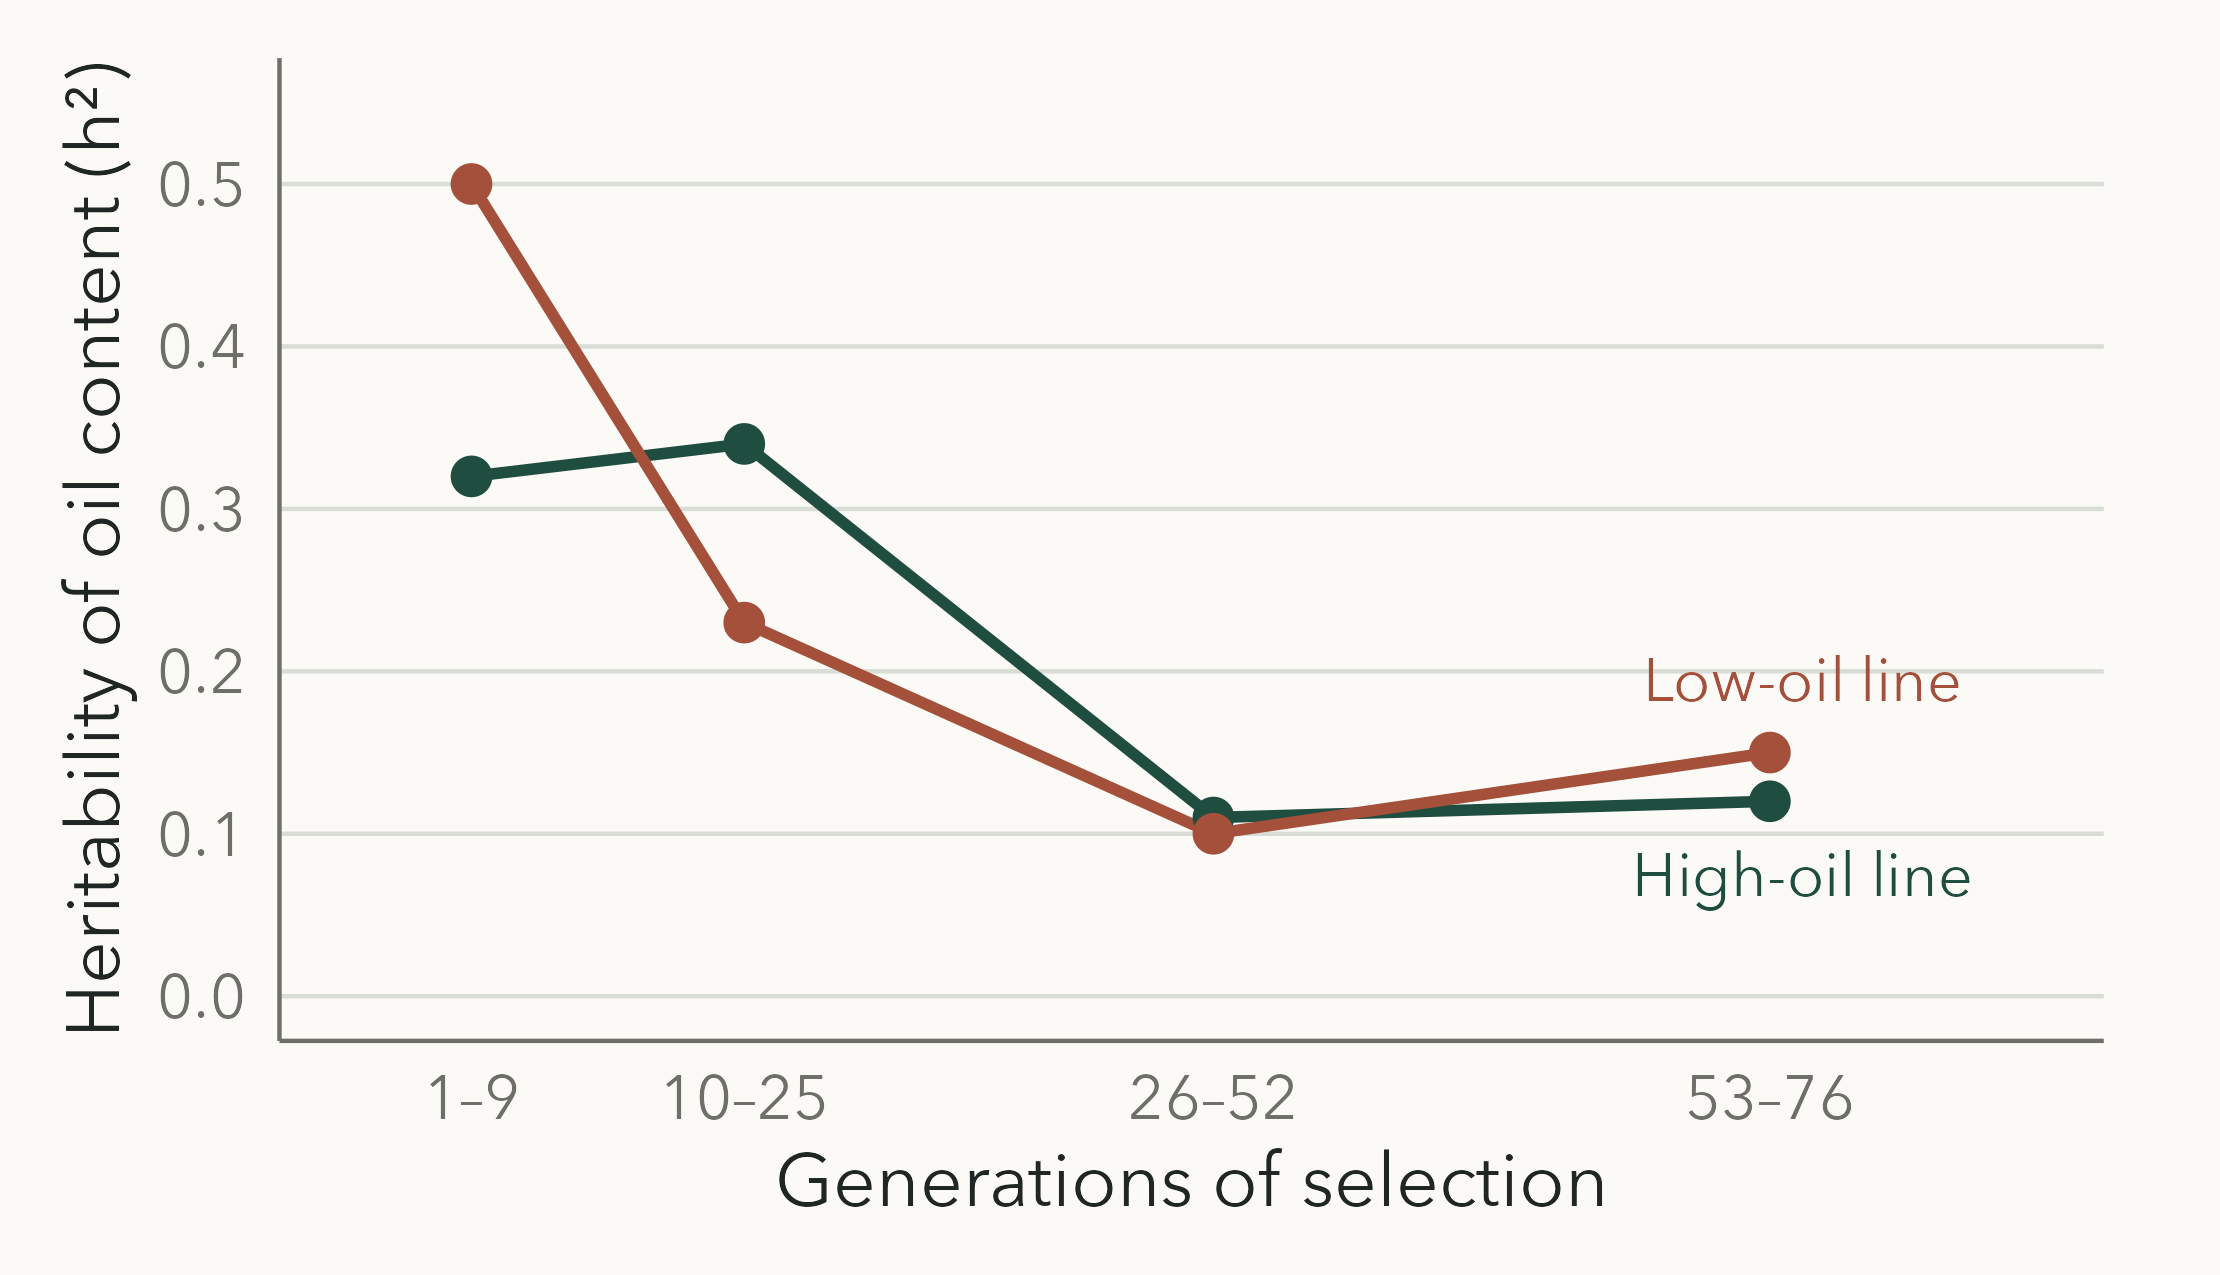
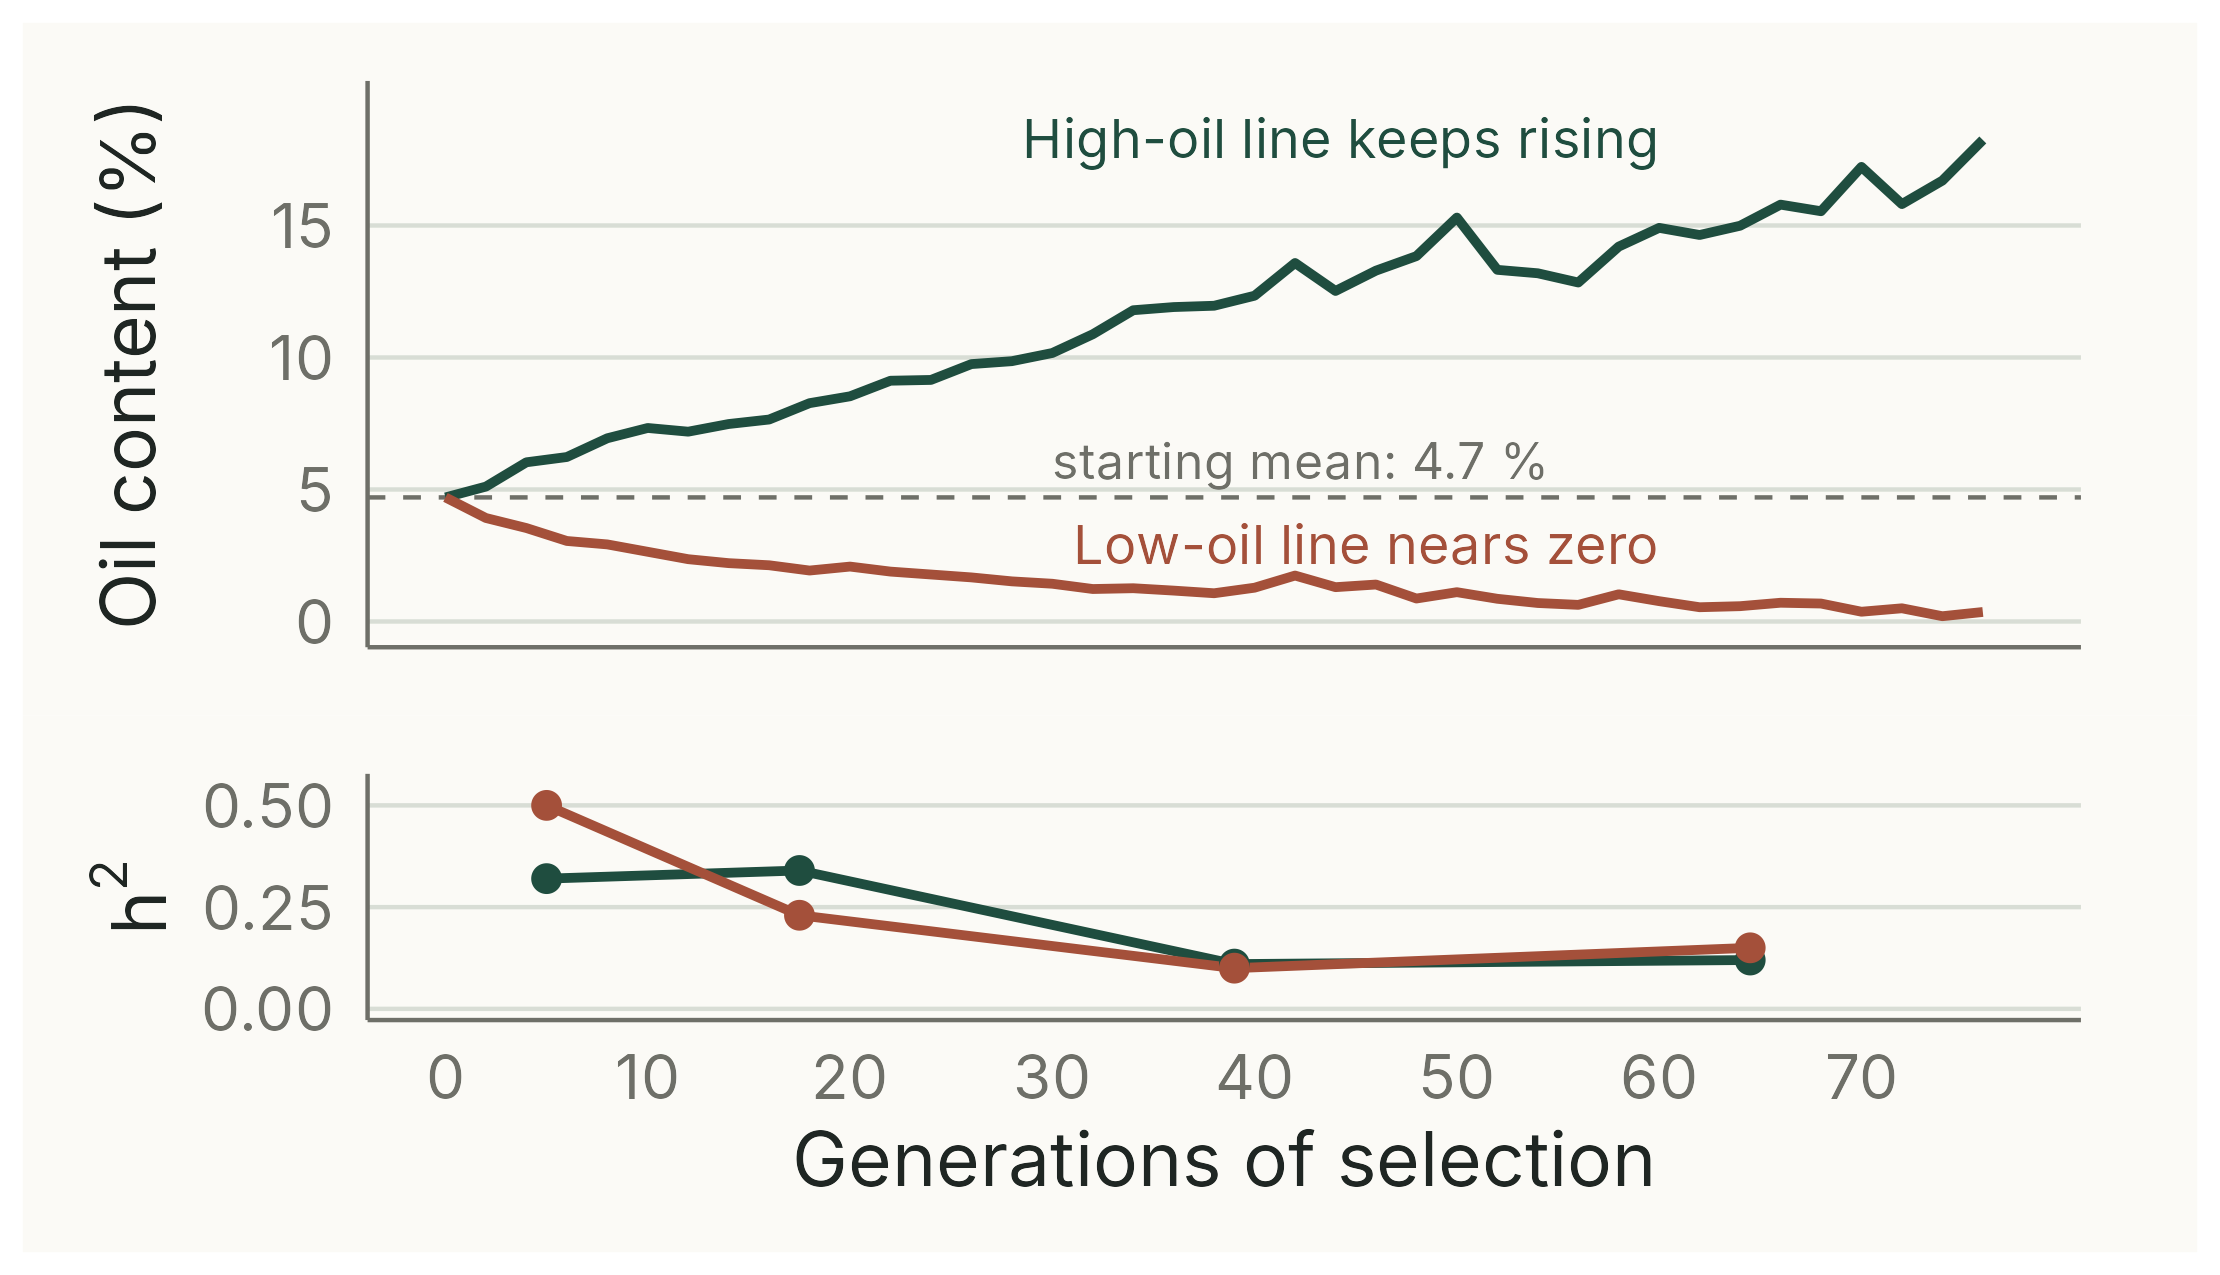
Update to heritability and quant gen material

Changed region(s): [[0.0311, 0.0306, 0.9324, 0.9482]]

diff --git a/lecture_figures/polygenic_quantitative_genetics/README.md b/lecture_figures/polygenic_quantitative_genetics/README.md
@@ -19,7 +19,7 @@ Run all figures from this folder with `source("render_all.R")`, or `LANG=C.UTF-8
 | `03_variance_budget.R` | 14, 19 | `takeaway` | East's variance components: V_G and V_E (03a); V_A, V_D + V_I, V_E (03b) | Empirical (Neal, partitioning section) |
 | `04_east_regression.R` | 18 | `takeaway` | Mid-parent–offspring regression, slope 0.8348, with h² = 1 and h² = 0 reference lines | Empirical, points digitised from Neal's parent–offspring figure |
 | `05_breeders_equation.R` | 25 | `takeaway` | Sheep weight: S = 25 kg, h² = 0.5, R = 12.5 kg | Analytical, illustrative (SD 15 kg assumed) |
-| `06_corn_heritability.R` | 29 | `takeaway` | h² of oil content during the Illinois maize selection experiment | Empirical (Neal, oil-content heritability table) |
+| `06_corn_heritability.R` | 29 (Keynote 27) | `takeaway` | Illinois maize: line means of oil content (top) and h² by block of generations (bottom) | Empirical. Top: DIGITISED from Neal Fig. 12.6 (after Dudley 1977), approximate; bottom: Neal Table 12.3 |
 | `07_reaction_norms.R` | 33 | `full` | Four reaction-norm patterns (plastic, genetic, both, G×E) | Schematic |
 | `08_gxe_heritability.R` | 34 | `takeaway` | Crossing reaction norms: V_G high, zero, moderate across environments | Schematic |
 | `09_phenology_mismatch.R` | 35 (hidden) | `full` | Bud burst, caterpillar and great tit timing against spring temperature | Schematic |
